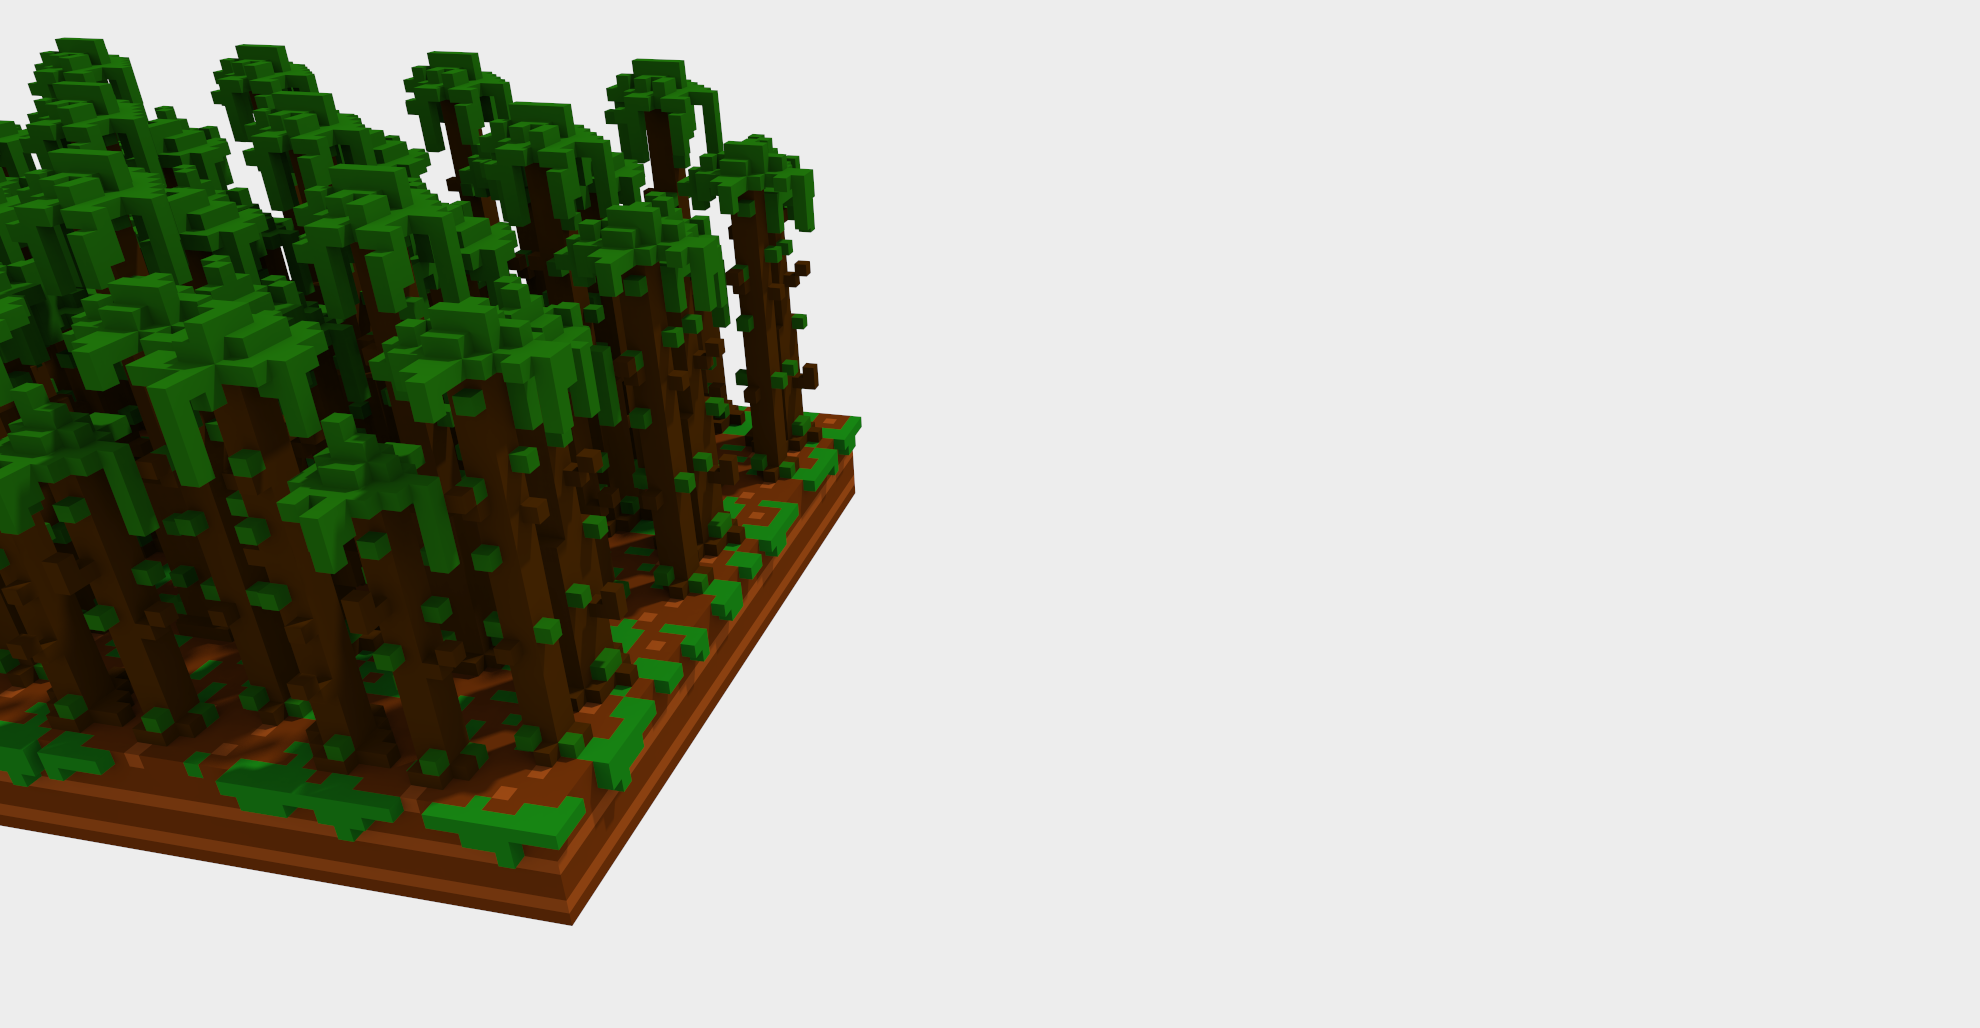
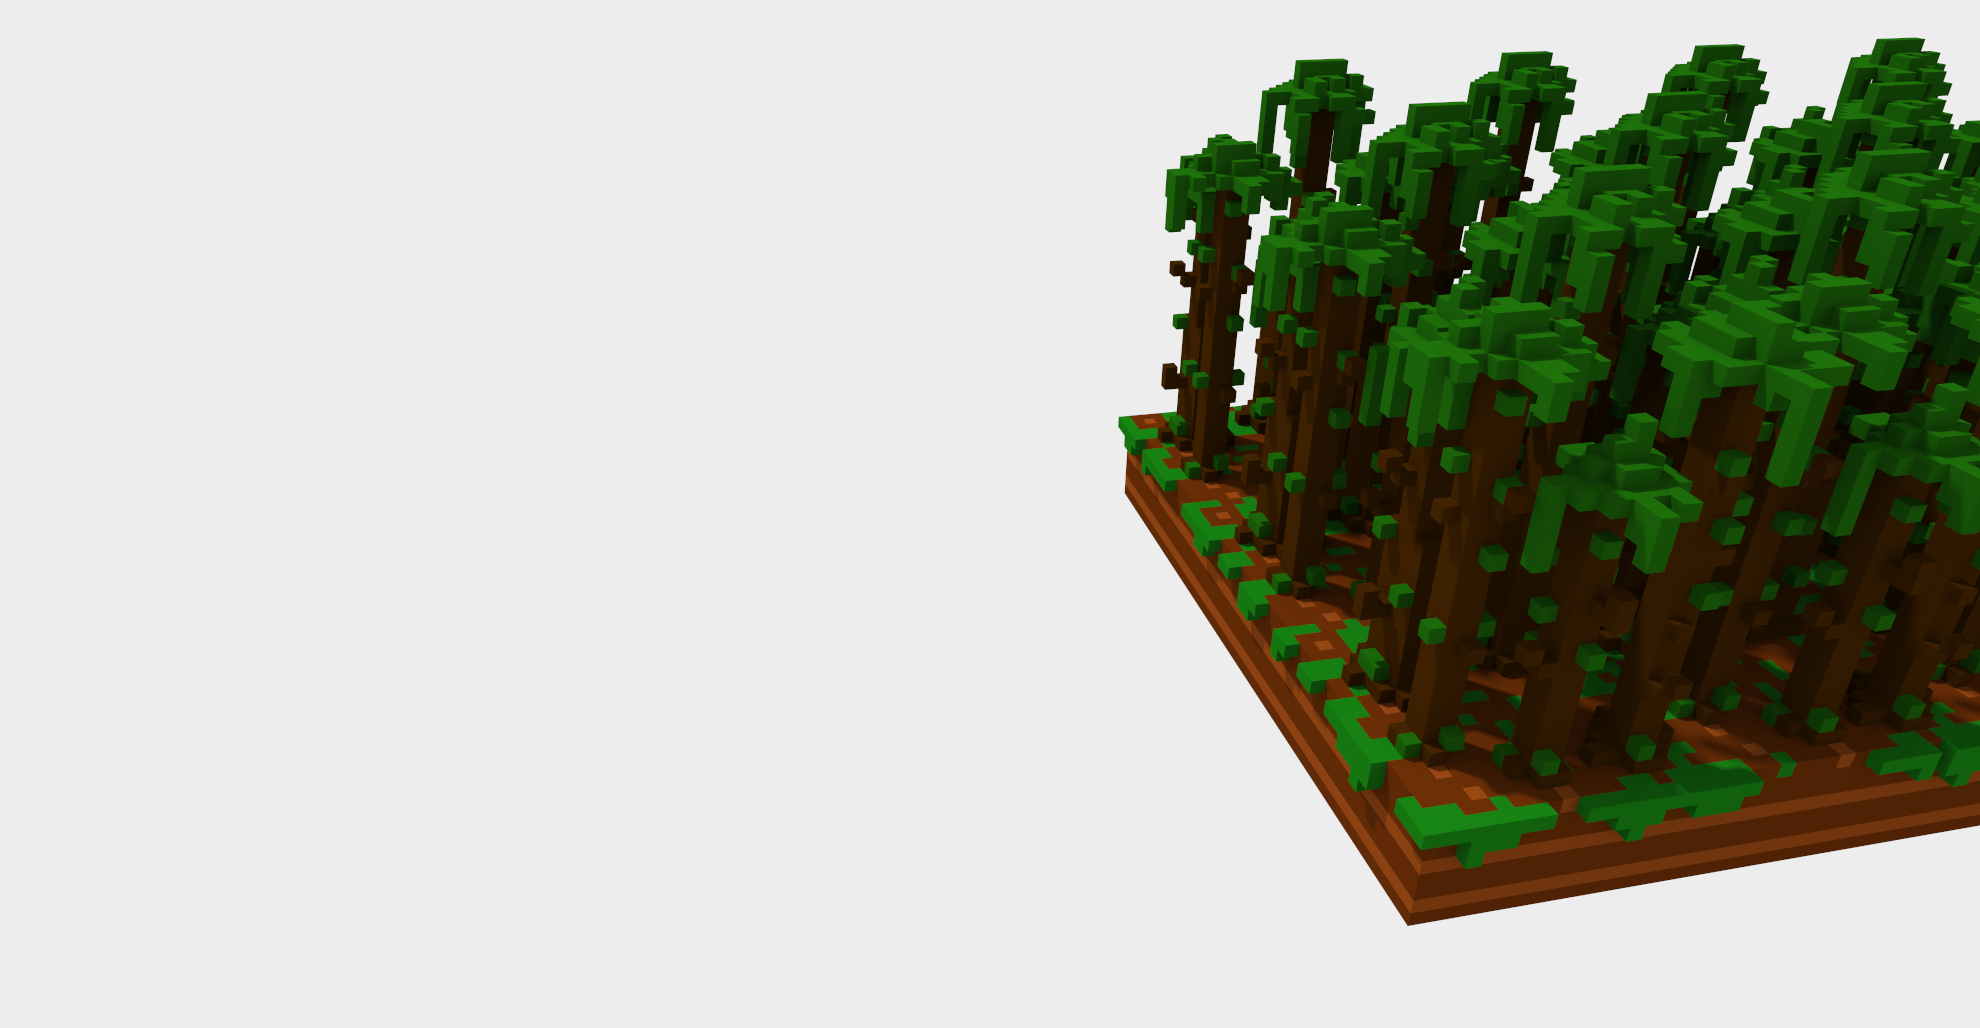
Added mirrored forest image

diff --git a/IXD-project-website/index.html b/IXD-project-website/index.html
@@ -1,20 +1,16 @@
 
 <html>
     <head>
-
         <meta charset="utf-8">
-
         <link type="text/css" rel="stylesheet" href="css/style.css">
-        <script type="text/javascript" src="https://ajax.googleapis.com/ajax/libs/jquery/2.2.0/jquery.min.js"></script>
-        <script src="scripts/script.js"></script>
-		<meta name="viewport" content="width=device-width, initial-scale=1.0"/>
+		    <meta name="viewport" content="width=device-width, initial-scale=1.0"/>
         <!-- Font for google -->
        <link href="https://fonts.googleapis.com/css?family=Work+Sans" rel="stylesheet">
 
     </head>
     <body>
       <div class="video-container">
-        <p>Skogstokig.</p>
+        <p>Farmkampen</p>
         <div class="filter"></div>
           <video autoplay loop class="fillWidth">
               <source src="assets/videos/forestlullaby.mp4" type="video/mp4" />Your browser does not support the video tag. I suggest you upgrade your browser.
@@ -31,8 +27,8 @@
           </div>
         </div>
       </div>
-      <div class="image-container forest">
-        <div class="image-text">
+      <div class="image-container left forest">
+        <div class="image-text left">
           <div class="text-content">
             <h1>WHY?</h1>
             <p> This is a different and hopefully engaging way of learing the causes and effects of rainforest deforestation.
@@ -49,19 +45,6 @@
           </div>
         </div>
       </div>
-      <!--<div class="circle-header">WHAT</div>
-      <div class="subtext">
-        A fast-paced tablet game where a player is tasked with expanding a farm by cutting down trees and using resources. <br>
-        The end goal is to generate as much food as possible in a limitied amount of time.
-      </div>
-      <div class="circle-header">WHY</div>
-      <div class="subtext">
-        This is a different and hopefully engaging way of learing the causes and effects of rainforest deforestation.
-      </div>
-      <div class="circle-header">HOW</div>
-      <div class="subtext">
-        By being awesomest
-      </div> -->
       <div class="movie">
         <iframe src="https://player.vimeo.com/video/190362296" width="1440" height="810" frameborder="0" webkitallowfullscreen mozallowfullscreen allowfullscreen>
         </iframe>
@@ -70,27 +53,31 @@
         <div class="contributor">
           <img src="assets/avatar.png"/>
           <p> Jesper Olsson <p>
-          <i>jeppzone[at]gmail.com</i>
+          <i>jeppzone[@]gmail.com</i>
         </div>
         <div class="contributor">
           <img src="assets/avatar.png"/>
-          <p> Jesper Olsson <p>
-          <i>jeppzone[at]gmail.com</i>
+          <p> Felix Franzén <p>
+          <i>jeppzone[@]gmail.com</i>
         </div>
         <div class="contributor">
           <img src="assets/avatar.png"/>
-          <p> Jesper Olsson <p>
-          <i>jeppzone[at]gmail.com</i>
+          <p> Simon Lindkvist <p>
+          <i>jeppzone[@]gmail.com</i>
         </div>
         <div class="contributor">
           <img src="assets/avatar.png"/>
-          <p> Jesper Olsson <p>
-          <i>jeppzone[at]gmail.com</i>
+          <p> Carl Nätterdal <p>
+          <i>jeppzone[@]gmail.com</i>
         </div>
         <div class="contributor">
           <img src="assets/avatar.png"/>
-          <p> Jesper Olsson <p>
-          <i>jeppzone[at]gmail.com</i>
+          <p> Kittipon Chaikittiwanich <p>
+          <i>jeppzone[@]gmail.com</i>
         </div>
       </div>
+      <div class="chalmers">
+        <p> Developed at Chalmers University of Technology, 2017 </p>
+      </div>
+      </footer>
 </html>

diff --git a/IXD-project-website/css/style.css b/IXD-project-website/css/style.css
@@ -3,6 +3,7 @@ body {
   margin: 0 !important;
   padding: 0 !important;
 }
+
 .no-video .video-container video,
 .touch .video-container video {
     display: none;
@@ -23,6 +24,14 @@ p {
   opacity: 0.95;
 }
 
+.video-container p {
+  font-size: 10rem;
+  color: #FFF;
+  opacity: 0.9;
+  display: flex;
+  justify-content: center;
+}
+
 .video-container {
     position: relative;
     bottom: 0%;
@@ -31,7 +40,6 @@ p {
     width: 100%;
     overflow: hidden;
     background: #000;
-    font-size: 200px;
     color: white;
 }
 .video-container .filter {
@@ -50,62 +58,34 @@ p {
     width: 100%;
 }
 
-.page-header span {
-  padding-top: 30px;
-  display: inline-block;
-  vertical-align: middle;
-  font-size: 100px;
-  letter-spacing: 20px;
-  color: white;
-}
-
-.circle-header {
-  letter-spacing: 5px;
-  width: 300px;
-  height: 300px;
-  border-radius: 50%;
-  font-size: 50px;
-  color: #fff;
-  line-height: 300px;
-  text-align: center;
-  background: #3C6E51;
-  margin: auto;
-  margin-top: 20px;
-  margin-bottom: 20px;
-}
-
-.subtext {
-  color: #000;
-  text-align: center;
-  font-weight: 100;
-  font-size: 24px;
-}
-
-@media (max-width: 769px) {
-    .page-header {
-      height: 300px;
-    }
-
-    .page-header span {
-      font-size: 46px;
-    }
-}
-
 .movie {
+  background-color: #F1F1F1;
   width: 100%;
   display: flex;
   justify-content: center;
+  padding-top: 50px;
+  padding-bottom: 50px;
 }
 
 .movie iframe {
 }
 
 .contributors {
-  background-color: #00A445;
+  background-color: #E1E1E1;
   color: #fff;
   width: 100%;
   display:inline-flex;
   justify-content: center;
+}
+
+@media (max-width: 1200px) {
+  .contributors {
+    display: block;
+  }
+}
+
+.contributors p {
+  font-weight: 200;
 }
 
 .contributor {
@@ -125,7 +105,7 @@ p {
 }
 
 .contributor img {
-  width: 200px;
+  width: 10em;
 }
 
 .image-container {
@@ -135,6 +115,10 @@ p {
   background-size: cover;
   display: flex;
   justify-content: flex-end;
+}
+
+.image-container.left {
+  justify-content: flex-start;
 }
 
 .cow {
@@ -161,6 +145,12 @@ p {
   align-items: center;
 }
 
+.image-text.left{
+  float: left;
+  padding: 30px 0 0 60px;
+  justify-content: flex-start;
+}
+
 .farm .image-text {
   background-color: #f1f1f1;
 }
@@ -182,4 +172,8 @@ p {
 
 .text-content p {
   font-size: 2rem;
+}
+
+.chalmers {
+  text-align: center;
 }
